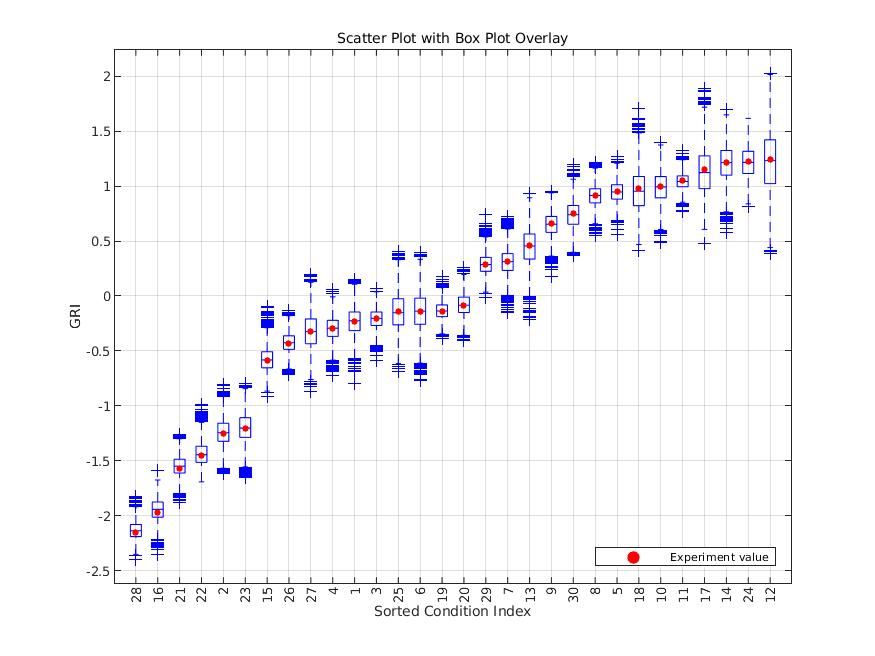
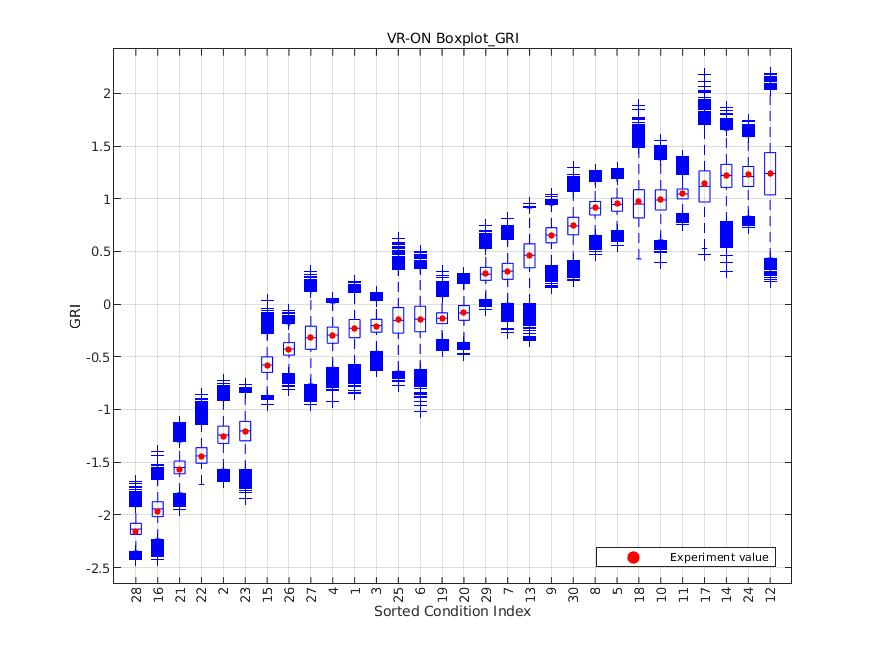
0709

diff --git a/exp3_analysis/Graph_Significance_HMS.m b/exp3_analysis/Graph_Significance_HMS.m
@@ -27,10 +27,10 @@ for mat = 1:length(MatNames)
         errorbar(x_axis, centerValue, lowerError, upperError, 'o', 'LineWidth', 1.0);
 
         graphtext1 = sprintf('%.2f',r_value);
-        text(x_axis-0.1,(abs(r_value)+0.06)*r_value/abs(r_value),graphtext1,'HorizontalAlignment','center','VerticalAlignment','bottom','FontSize',8*amp);
+        text(x_axis-0.5,(abs(r_value)-0.05)*r_value/abs(r_value),graphtext1,'HorizontalAlignment','center','VerticalAlignment','bottom','FontSize',8*amp);
         if p_value_list(mat,shape) < 0.05
             graphtext3 = sprintf('*');
-            text(x_axis,(abs(r_value)+0.12)*r_value/abs(r_value),graphtext3,'HorizontalAlignment','center','VerticalAlignment','bottom','FontSize',12*amp);
+            text(x_axis,(abs(r_value)+0.05)*r_value/abs(r_value),graphtext3,'HorizontalAlignment','center','VerticalAlignment','bottom','FontSize',12*amp);
         end
 
         ylim([-0.1,1.1]);
@@ -45,7 +45,7 @@ for mat = 1:length(MatNames)
     xlabel('Shape types','FontSize',18*amp);
     ylabel('Correlation Coefficient','FontSize',18*amp);
     title(sprintf('%s VS %s Correlation Coefficient\n%s',NameA,NameB,string(MatNames(mat))),'FontSize',18*amp);
-    text(x_Limits(1)*0.9,y_Limits(2)*0.95, '* : p < 0.05', 'FontSize', 15*amp);
+    text(x_Limits(1)*0.9,y_Limits(2)*0.95, '* : p < 0.05', 'FontSize', 10*amp);
     %legend([bar_coef, VR_bar,VR_95CI], {'Row data', 'VR bar','VR 95 CI'}, 'Location', 'best','Orientation','vertical');
     hold off;
     plotname = sprintf('%s/%svs%s_Coefbar_HMS_%s.jpg',savepath, NameA,NameB,string(MatNames(mat)));

diff --git a/exp3_analysis/Graph_Significance_MS.m b/exp3_analysis/Graph_Significance_MS.m
@@ -25,10 +25,10 @@ for i = 1:repeater
     errorbar(x_axis, centerValue, lowerError, upperError, 'o', 'LineWidth', 1.0);
 
     graphtext1 = sprintf('%.2f',observed_corr(i));
-    text(x_axis-0.1,(abs(observed_corr(i))+0.06)*observed_corr(i)/abs(observed_corr(i)),graphtext1,'HorizontalAlignment','center','VerticalAlignment','bottom','FontSize',8*amp);
+    text(x_axis-0.5,(abs(observed_corr(i))-0.05)*observed_corr(i)/abs(observed_corr(i)),graphtext1,'HorizontalAlignment','center','VerticalAlignment','bottom','FontSize',8*amp);
     if p_value(i) < 0.05
         graphtext3 = sprintf('*');
-        text(x_axis,(abs(observed_corr(i))+0.12)*observed_corr(i)/abs(observed_corr(i)),graphtext3,'HorizontalAlignment','center','VerticalAlignment','bottom','FontSize',12*amp);
+        text(x_axis,(abs(observed_corr(i))+0.05)*observed_corr(i)/abs(observed_corr(i)),graphtext3,'HorizontalAlignment','center','VerticalAlignment','bottom','FontSize',12*amp);
     end
 
     ylim([0.0,1.1]);
@@ -38,7 +38,7 @@ for i = 1:repeater
     aveorigin = mean(noise_ceiling_distAA(:,i));
     bar_plot = plot([x_axis-0.5, x_axis+0.5], [aveorigin, aveorigin], 'k--', 'LineWidth', 1.2, 'DisplayName', 'Within-subject average');
 
-    text(x_Limits(1)*0.9,y_Limits(2)*0.95, '* : p < 0.05', 'FontSize', 15*amp);
+    text(x_Limits(1)*0.9,y_Limits(2)*0.95, '* : p < 0.05', 'FontSize', 10*amp);
     ylabel('Correlation Coefficient','FontSize',18*amp);
     hold off;
 end

diff --git a/exp3_analysis/Graph_Significance_H.m b/exp3_analysis/Graph_Significance_H.m
@@ -28,7 +28,7 @@ lowerError = centerValue - minValue;
 errorbar(x_axis, centerValue,lowerError,upperError, 'o', 'LineWidth', 1.0);
 
 graphtext1 = sprintf('%.2f',observed_corr);
-text(1*0.9,(abs(observed_corr)+0.06)*observed_corr/abs(observed_corr),graphtext1,'HorizontalAlignment','center','VerticalAlignment','bottom','FontSize',8*amp);
+text(1-0.5,(abs(observed_corr)-0.05)*observed_corr/abs(observed_corr),graphtext1,'HorizontalAlignment','center','VerticalAlignment','bottom','FontSize',8*amp);
 if p_value < 0.05
     graphtext3 = sprintf('*');
     text(1,(abs(observed_corr)+0.05)*observed_corr/abs(observed_corr),graphtext3,'HorizontalAlignment','center','VerticalAlignment','bottom','FontSize',12*amp);
@@ -41,7 +41,7 @@ x_Limits = xlim;
 aveorigin = mean(noise_ceiling_distAA);
 bar_plot = yline(aveorigin, 'k--', 'LineWidth', 1.2, 'DisplayName', 'Within-subject average');
 
-text(x_Limits(1)*0.9,y_Limits(2)*0.95, '* : p < 0.05', 'FontSize', 15*amp);
+text(x_Limits(1)*0.9,y_Limits(2)*0.95, '* : p < 0.05', 'FontSize', 10*amp);
 ylabel('Correlation Coefficient','FontSize',18*amp);
 
 hold off;

diff --git a/exp3_analysis/DataAnalyzer.m b/exp3_analysis/DataAnalyzer.m
@@ -480,6 +480,7 @@ classdef DataAnalyzer < handle
         function generateBootstrapPlot(obj, plotDataA,plotDataB, plotOptions)
             dataA = plotDataA.target;
             dataB = plotDataB.target;
+            plotOptions.Amp = 1;
             
             try
                 switch plotOptions.Mode
@@ -598,7 +599,8 @@ classdef DataAnalyzer < handle
                         % ---plot scatter ---                       
                         sampled_data = reshape(all_sampled_data,size(all_sampled_data,1),[]);
                         average_data = zscore(obj.MeanArray(data_r,1));
-                        plotBoxPlot(sampled_data,average_data,'YLabel',plotOptions.Property,'Labels',obj.HDRNum_30);
+                        title_str = sprintf("%s Boxplot_%s",plotData.Name,plotOptions.Property);
+                        plotBoxPlot(sampled_data,average_data,'YLabel',plotOptions.Property,'Labels',obj.HDRNum_30,'Amp',1.0,'Title',title_str);
 
                     case {"HM", "HS"}
                         if plotOptions.Mode == "HS"

diff --git a/exp3_analysis/plotBoxPlot.m b/exp3_analysis/plotBoxPlot.m
@@ -53,7 +53,7 @@ scatter(ax, 1:numel(sorted_scatter_values), sorted_scatter_values, ...
 
 %% 4. グラフの体裁を調整
 grid on;
-title(ax, options.Title, 'FontSize', 16 * options.Amp);
+title(ax, options.Title, 'FontSize', 16 * options.Amp, 'Interpreter', 'none');
 xlabel(ax, options.XLabel, 'FontSize', 12 * options.Amp);
 ylabel(ax, options.YLabel, 'FontSize', 12 * options.Amp);
 legend(ax, 'Location', 'southeast');
